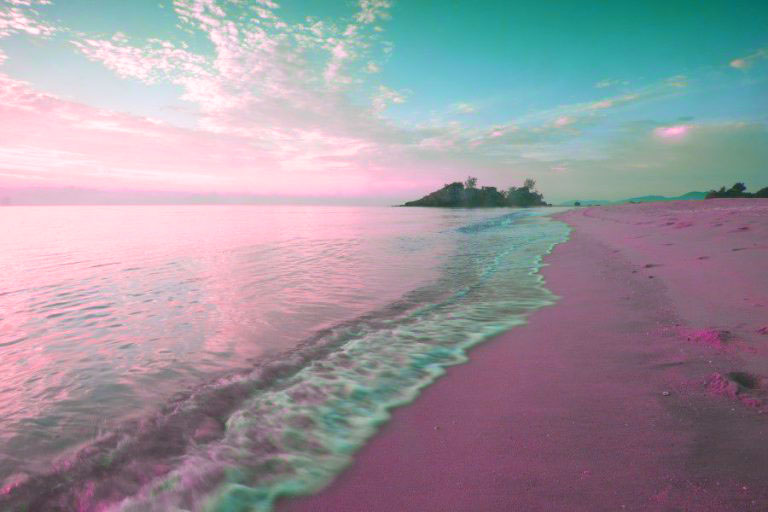
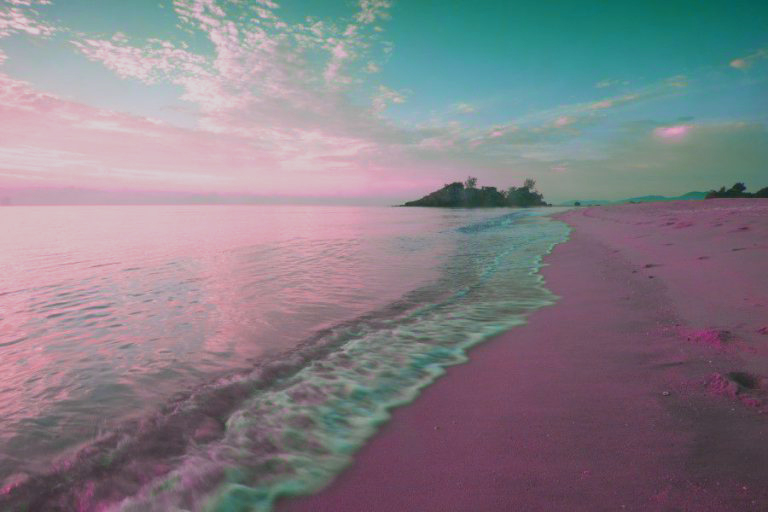
Made background image darker in PS

diff --git a/summervibes.html b/summervibes.html
@@ -30,24 +30,6 @@
     background-position: center;
     background-repeat: no-repeat;
     background-size: cover;
-
-    position: absolute;
-    top: 0px;
-    left: 0px;
-    z-index: 1;
-  }
-
-  .divider {
-    background-image: url("src/img/divider.jpg");
-    opacity: 0.5;
-    height: 100%;
-    background-position: center;
-    background-repeat: no-repeat;;
-    background-size: cover;
-    position: absolute;
-    top: 0px;
-    left: 0px;
-    z-index: 2;
   }
 </style>
 
